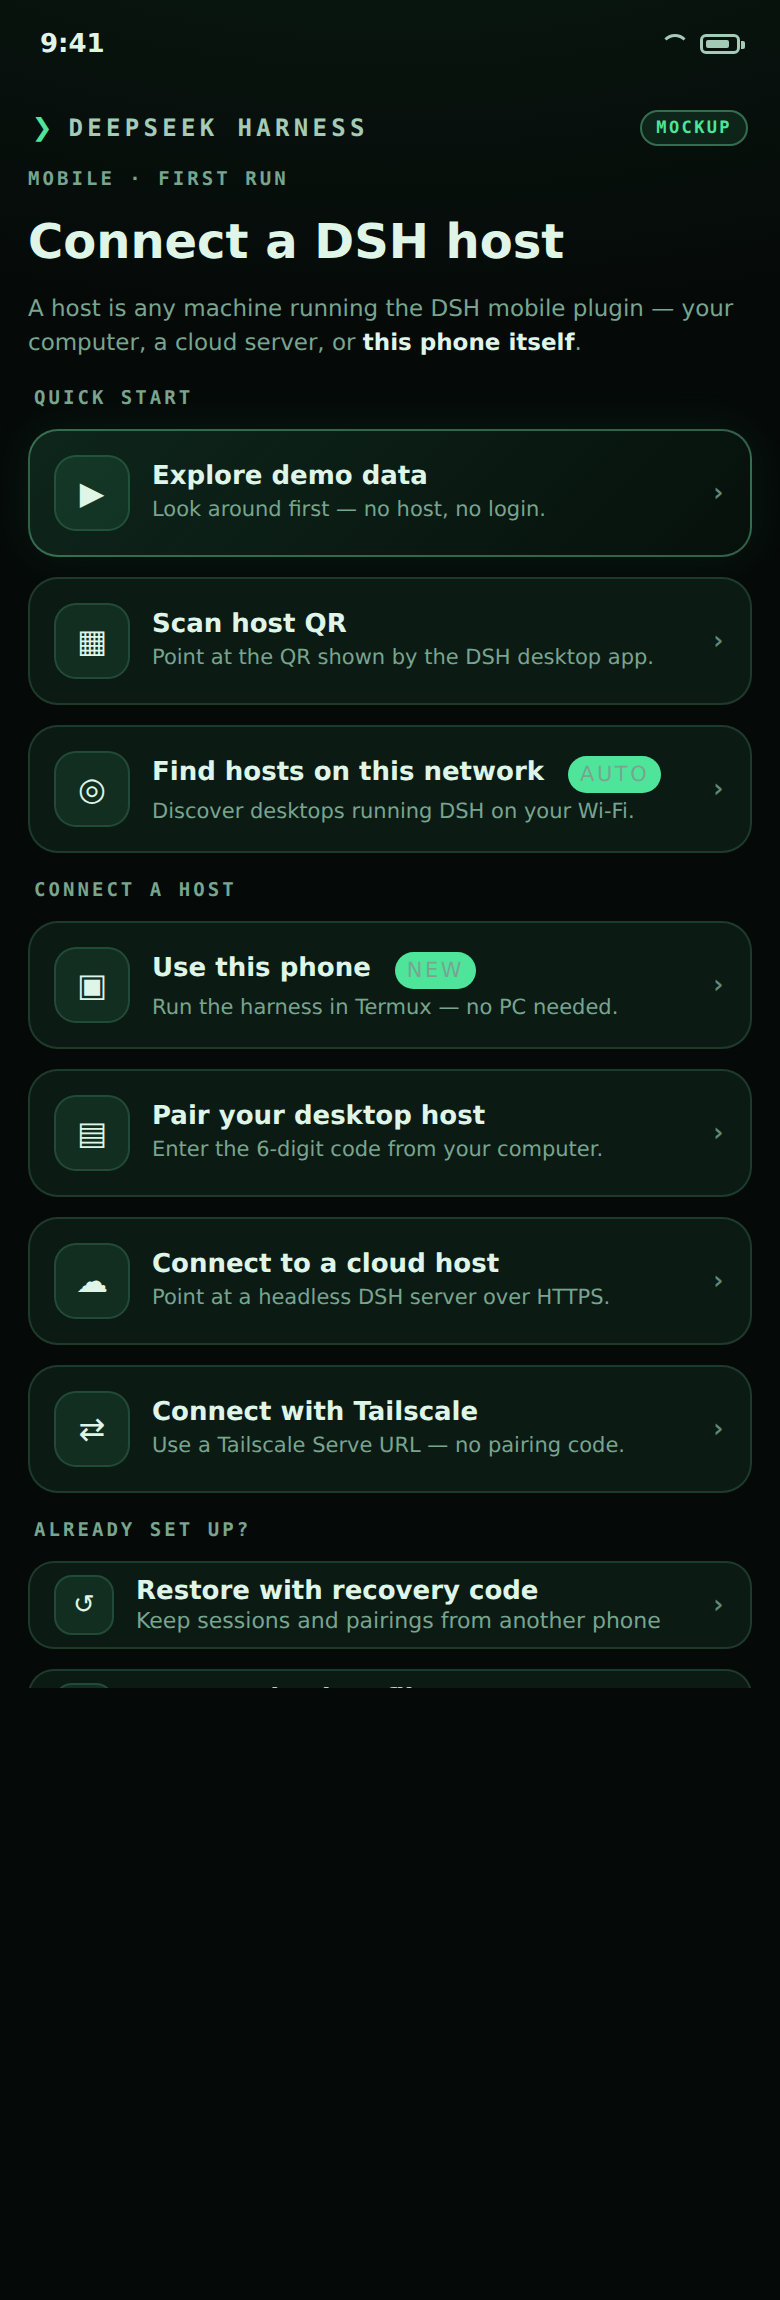
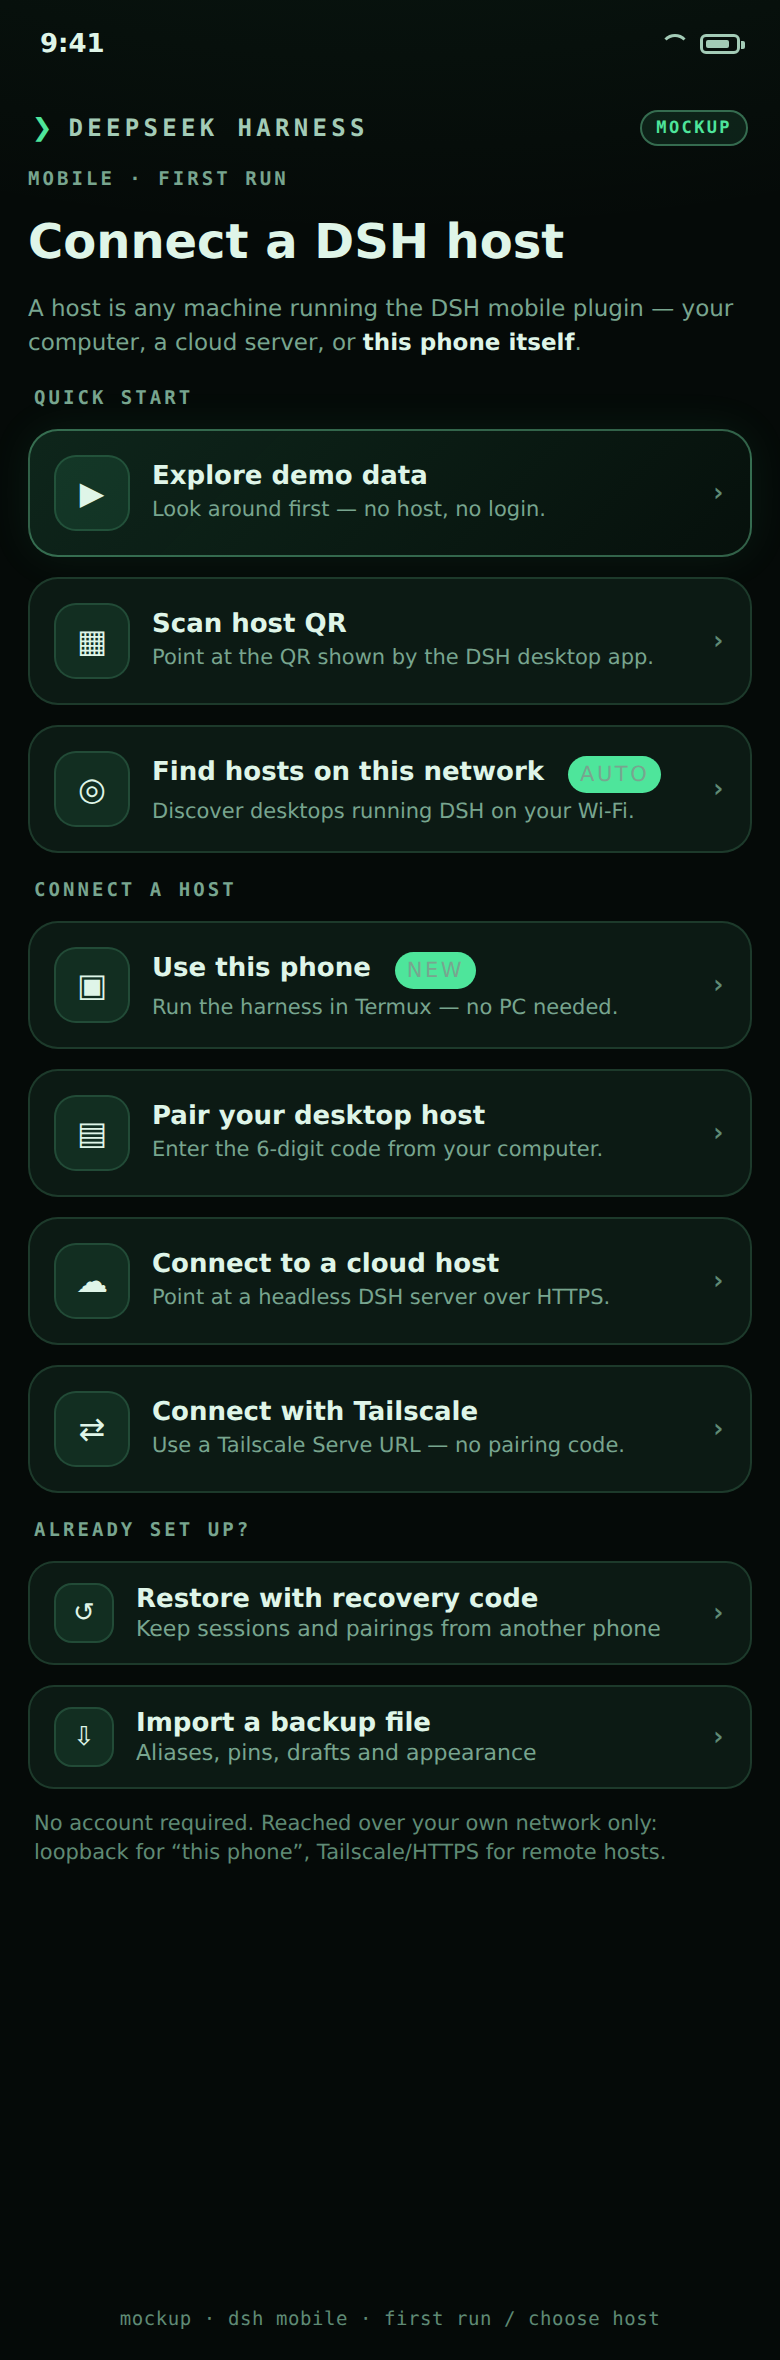
Startup mockups: full-length welcome (quick start / connect / already set up)

diff --git a/docs/design/startup-mockups/welcome-full.html b/docs/design/startup-mockups/welcome-full.html
@@ -1,0 +1,92 @@
+<!doctype html>
+<html lang="en"><head><meta charset="utf-8"><title>First run — choose host</title>
+<link rel="stylesheet" href="../mockups/mock.css">
+<style>
+.brandline { display:flex; align-items:center; gap:8px; padding: 2px 2px 0; }
+.brandline .b { color: var(--mint); font: 700 17px var(--mono); }
+.brandline .t { font: 650 12px var(--mono); letter-spacing:.18em; color: var(--text2); }
+.kicker { font: 600 9.5px var(--mono); letter-spacing:.16em; color: var(--text3); }
+.big { font: 650 24px/1.2 var(--sans); color: var(--text); margin-top: 2px; }
+.lead { font: 400 11.5px/1.5 var(--sans); color: var(--text3); }
+.hostcard { display:flex; align-items:center; gap:11px; background: var(--layer2); border:1px solid var(--line); border-radius: 15px; padding: 12px; }
+.hostcard.hot { border-color: var(--line-strong); background: linear-gradient(135deg, rgba(78,229,155,.13), rgba(78,229,155,.03)); box-shadow: 0 0 22px rgba(78,229,155,.08); }
+.hostcard .ic2 { width: 38px; height: 38px; border-radius: 11px; display:grid; place-items:center; background: var(--mint-wash); border:1px solid var(--line); font-size:16px; flex:0 0 auto; }
+.hostcard .txt { flex:1; min-width:0; }
+.hostcard .txt b { display:block; font: 650 13px var(--sans); color: var(--text); }
+.hostcard .txt span { display:block; margin-top:2px; font: 400 10.5px/1.35 var(--sans); color: var(--text3); }
+.titleline { display:flex; align-items:center; gap:6px; }
+.titleline b { font: 650 13px var(--sans); color: var(--text); }
+.tagnew { display:inline-block; width:max-content; font: 700 8px var(--mono); letter-spacing:.12em; color:#04241a; background: var(--mint); border-radius: 20px; padding: 2px 6px; margin-left: 6px; }
+.smallrow { display:flex; gap:10px; align-items:center; font: 500 10px var(--mono); color: var(--text3); }
+.smallrow b { color: var(--text2); font-weight: 600; }
+</style><style>body{height:1180px}</style>
+</head>
+<body><div class="app">
+  <div class="sb"><span>9:41</span><span class="right"><i class="wifi"></i><span class="batt"><i></i></span></span></div>
+  <div class="content" style="gap:10px; padding-top:8px">
+    <div class="brandline"><span class="b">❯</span><span class="t">DEEPSEEK HARNESS</span><span class="proposed" style="margin-left:auto">MOCKUP</span></div>
+    <div class="kicker">MOBILE · FIRST RUN</div>
+    <div class="big">Connect a DSH host</div>
+    <div class="lead">A host is any machine running the DSH mobile plugin — your computer, a cloud server, or <b style="color:var(--text)">this phone itself</b>.</div>
+
+    <div class="cap" style="margin-top:0">Quick start</div>
+
+    <div class="hostcard hot">
+      <div class="ic2">▶</div>
+      <div class="txt"><b>Explore demo data</b><span>Look around first — no host, no login.</span></div>
+      <div class="chev">›</div>
+    </div>
+
+    <div class="hostcard">
+      <div class="ic2">▦</div>
+      <div class="txt"><b>Scan host QR</b><span>Point at the QR shown by the DSH desktop app.</span></div>
+      <div class="chev">›</div>
+    </div>
+
+    <div class="hostcard">
+      <div class="ic2">◎</div>
+      <div class="txt"><div class="titleline"><b>Find hosts on this network</b><span class="tagnew">AUTO</span></div><span>Discover desktops running DSH on your Wi-Fi.</span></div>
+      <div class="chev">›</div>
+    </div>
+
+    <div class="cap">Connect a host</div>
+
+    <div class="hostcard">
+      <div class="ic2">▣</div>
+      <div class="txt"><div class="titleline"><b>Use this phone</b><span class="tagnew">NEW</span></div><span>Run the harness in Termux — no PC needed.</span></div>
+      <div class="chev">›</div>
+    </div>
+
+    <div class="hostcard">
+      <div class="ic2">▤</div>
+      <div class="txt"><b>Pair your desktop host</b><span>Enter the 6-digit code from your computer.</span></div>
+      <div class="chev">›</div>
+    </div>
+
+    <div class="hostcard">
+      <div class="ic2">☁</div>
+      <div class="txt"><b>Connect to a cloud host</b><span>Point at a headless DSH server over HTTPS.</span></div>
+      <div class="chev">›</div>
+    </div>
+
+    <div class="hostcard">
+      <div class="ic2">⇄</div>
+      <div class="txt"><b>Connect with Tailscale</b><span>Use a Tailscale Serve URL — no pairing code.</span></div>
+      <div class="chev">›</div>
+    </div>
+
+    <div class="cap">Already set up?</div>
+    <div class="row" style="padding:10px 12px">
+      <span class="ic" style="font-size:13px">↺</span>
+      <span class="meta"><b>Restore with recovery code</b><span>Keep sessions and pairings from another phone</span></span>
+      <span class="chev">›</span>
+    </div>
+    <div class="row" style="padding:10px 12px">
+      <span class="ic" style="font-size:13px">⇩</span>
+      <span class="meta"><b>Import a backup file</b><span>Aliases, pins, drafts and appearance</span></span>
+      <span class="chev">›</span>
+    </div>
+    <div class="note">No account required. Reached over your own network only: loopback for “this phone”, Tailscale/HTTPS for remote hosts.</div>
+    <div class="footer">mockup · dsh mobile · first run / choose host</div>
+  </div>
+</div></body></html>
